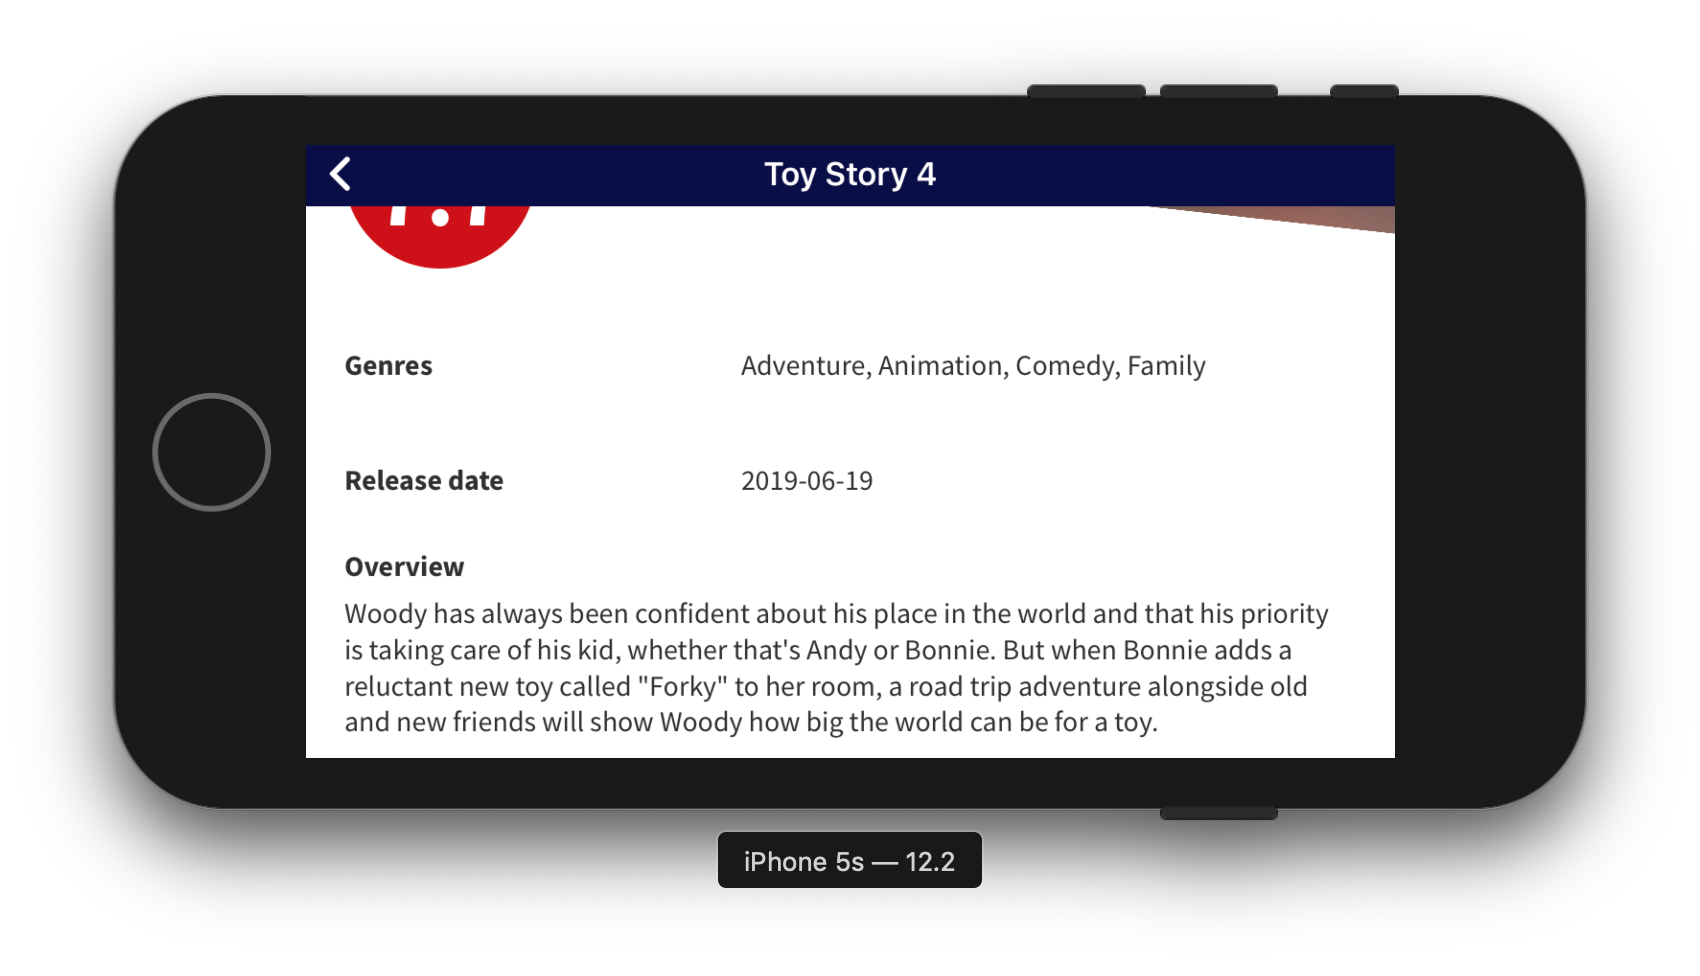
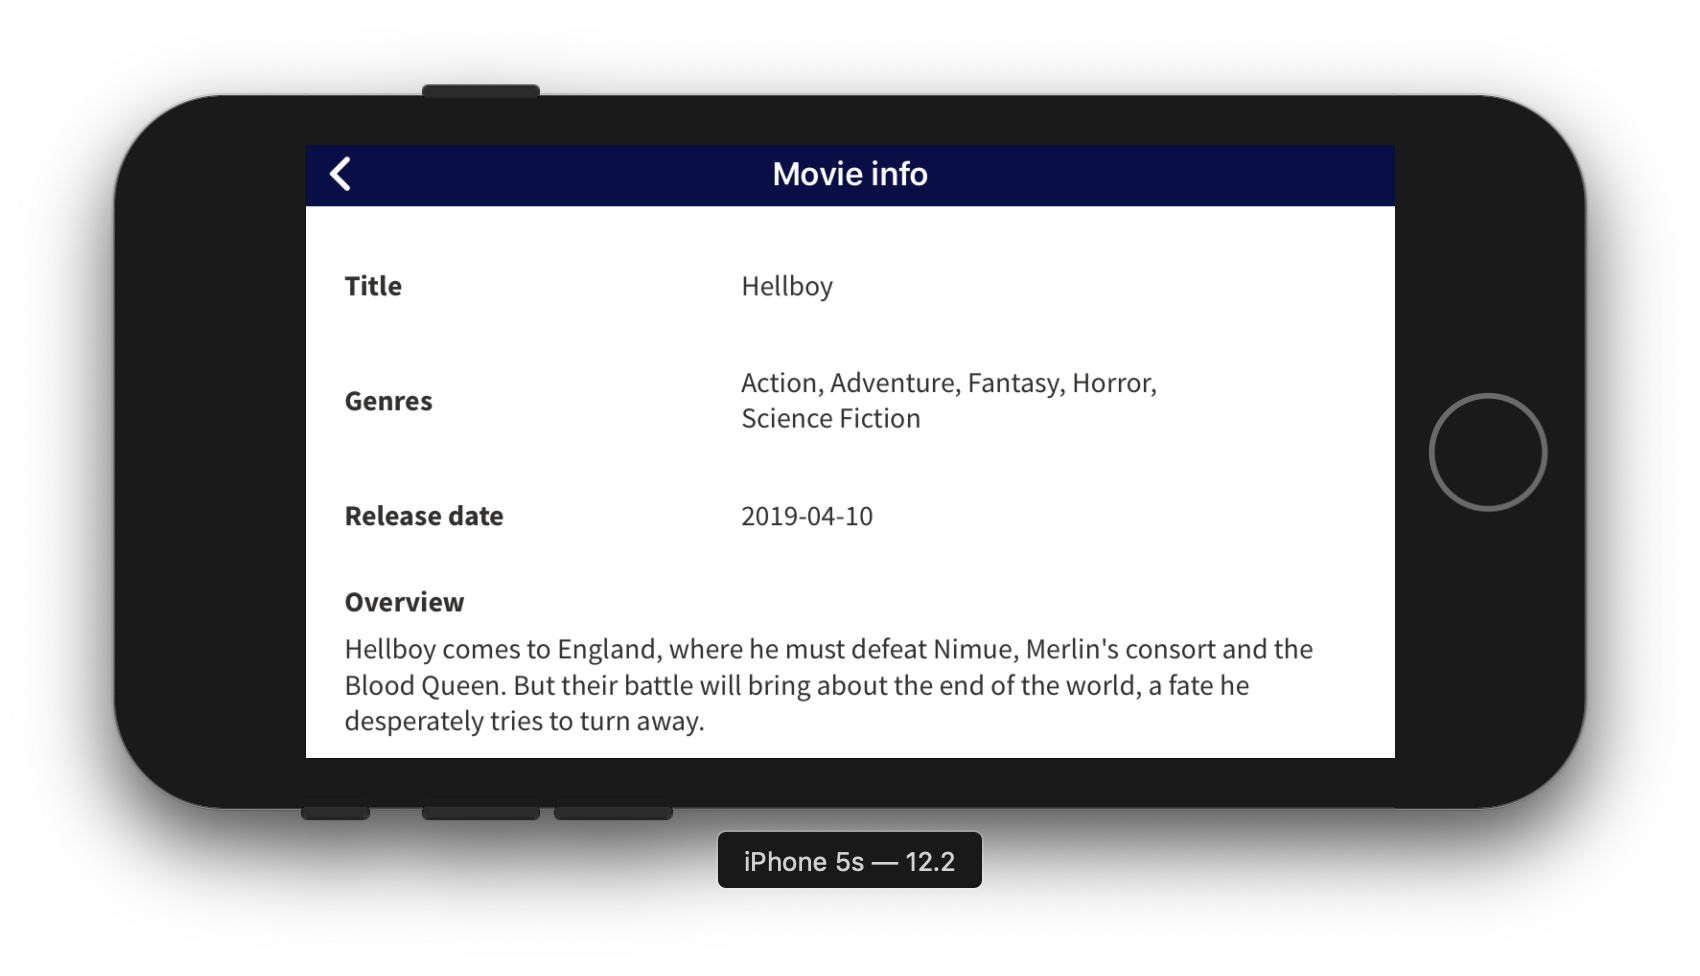
changed movie title position on detail view

diff --git a/MovieList/MovieList/Detail/DetailViewController.swift b/MovieList/MovieList/Detail/DetailViewController.swift
@@ -37,6 +37,22 @@ class DetailViewController: UIViewController {
             voteAverageLabel.text = NSLocalizedString("empty_text", comment: "")
         }
     }
+    @IBOutlet private weak var titleTitleLabel: UILabel! {
+        didSet {
+            titleTitleLabel.contentMode = .top
+            titleTitleLabel.font = UIFont.createFont(font: .movieListSourceSansProBold, size: 15)
+            titleTitleLabel.textColor = UIColor.createColor(color: .movieListDarkGray)
+            titleTitleLabel.text = NSLocalizedString("detail.title_title", comment: "")
+        }
+    }
+    @IBOutlet private weak var titleLabel: UILabel! {
+        didSet {
+            titleLabel.font = UIFont.createFont(font: .movieListSourceSansProRegular, size: 15)
+            titleLabel.textColor = UIColor.createColor(color: .movieListDarkGray)
+            titleLabel.numberOfLines = 0
+            titleLabel.text = NSLocalizedString("empty_text", comment: "")
+        }
+    }
     @IBOutlet private weak var genreTitleLabel: UILabel! {
         didSet {
             genreTitleLabel.contentMode = .top
@@ -108,7 +124,7 @@ class DetailViewController: UIViewController {
     // MARK: - private methods
     
     private func setTitle() {
-        title = viewModel?.getTitle()
+        titleLabel.text = viewModel?.getTitle()
     }
     
     private func setVoteAverage() {

diff --git a/README.md b/README.md
@@ -6,7 +6,7 @@ Application to see upcoming movies on US and it's details. Powered by [TheMovieD
 
 It's necessary to install and run cocoapods.
 
-## Libraries used
+## Libraries
 
 ### Alamofire
 
